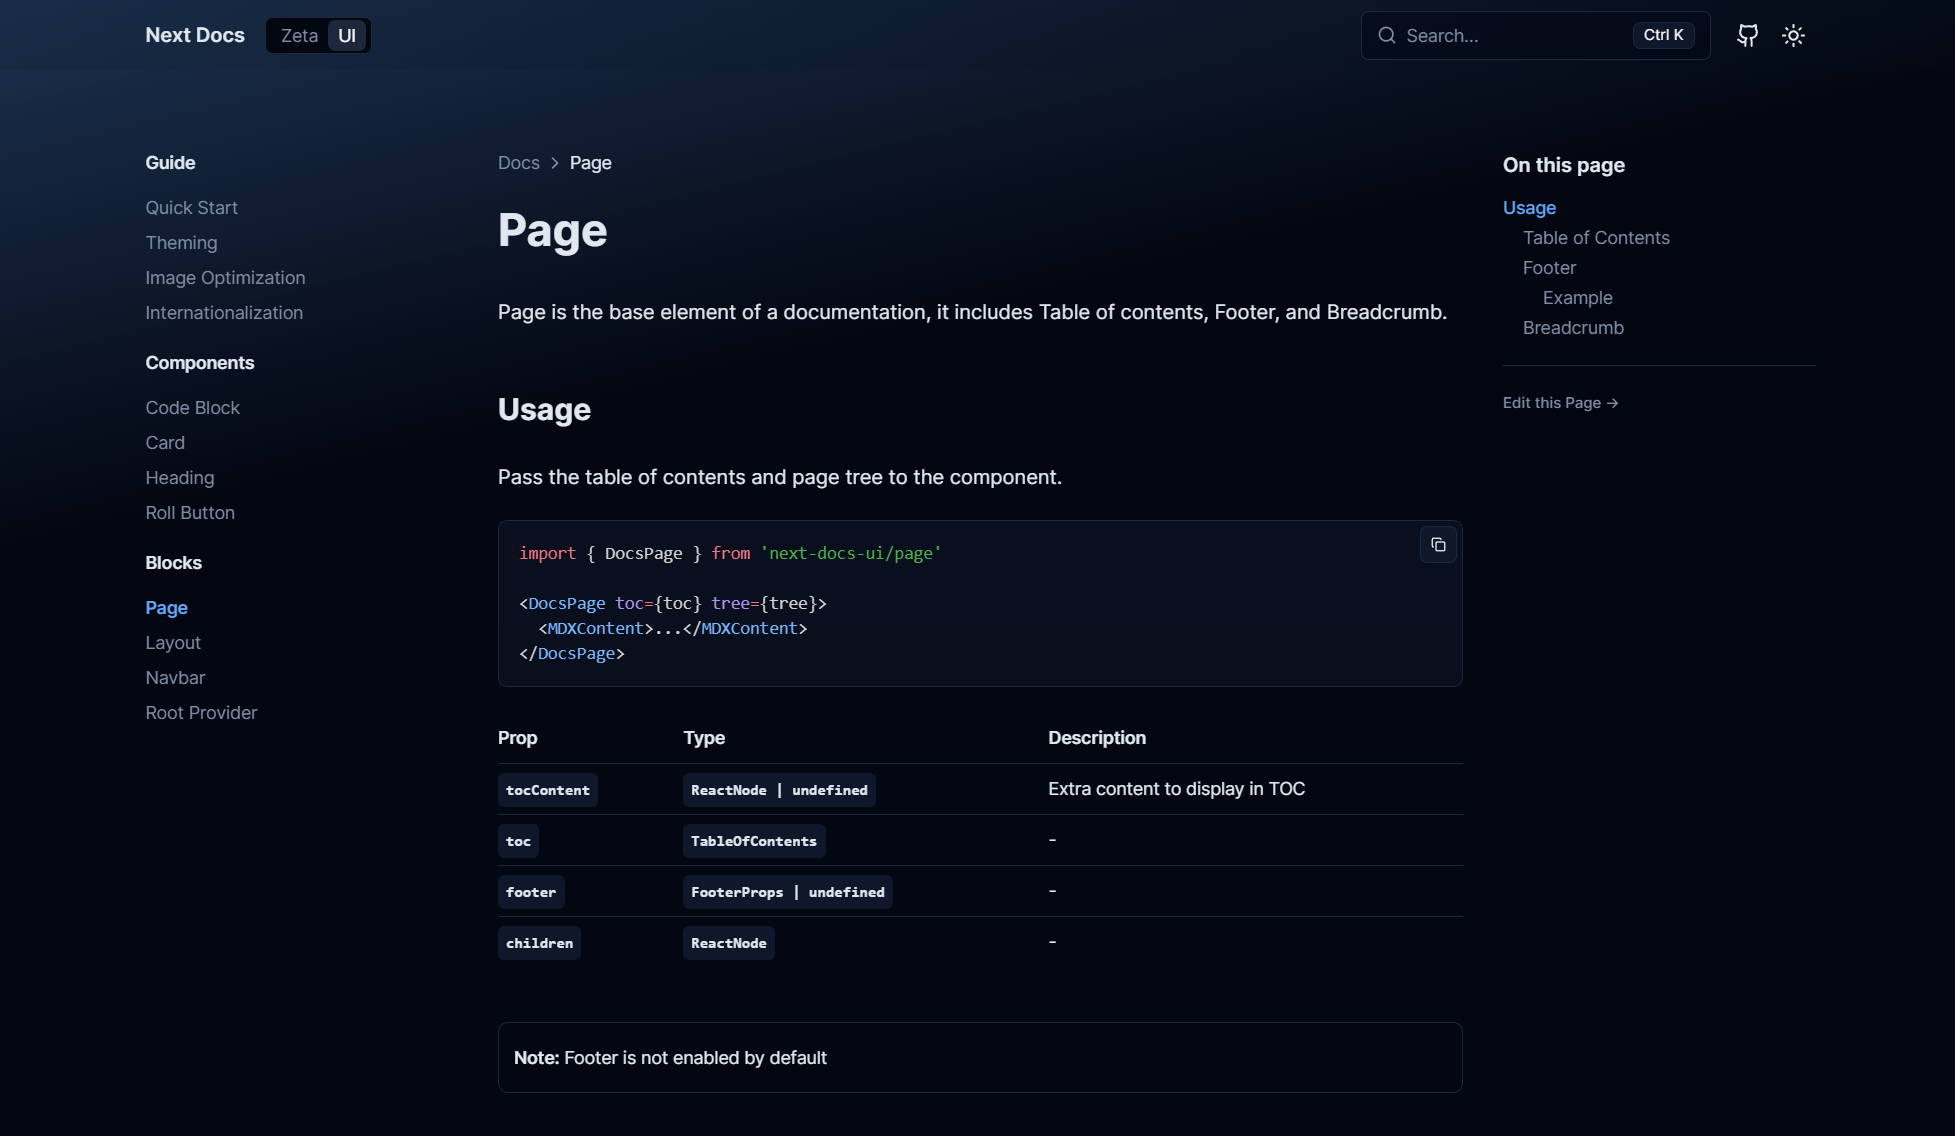
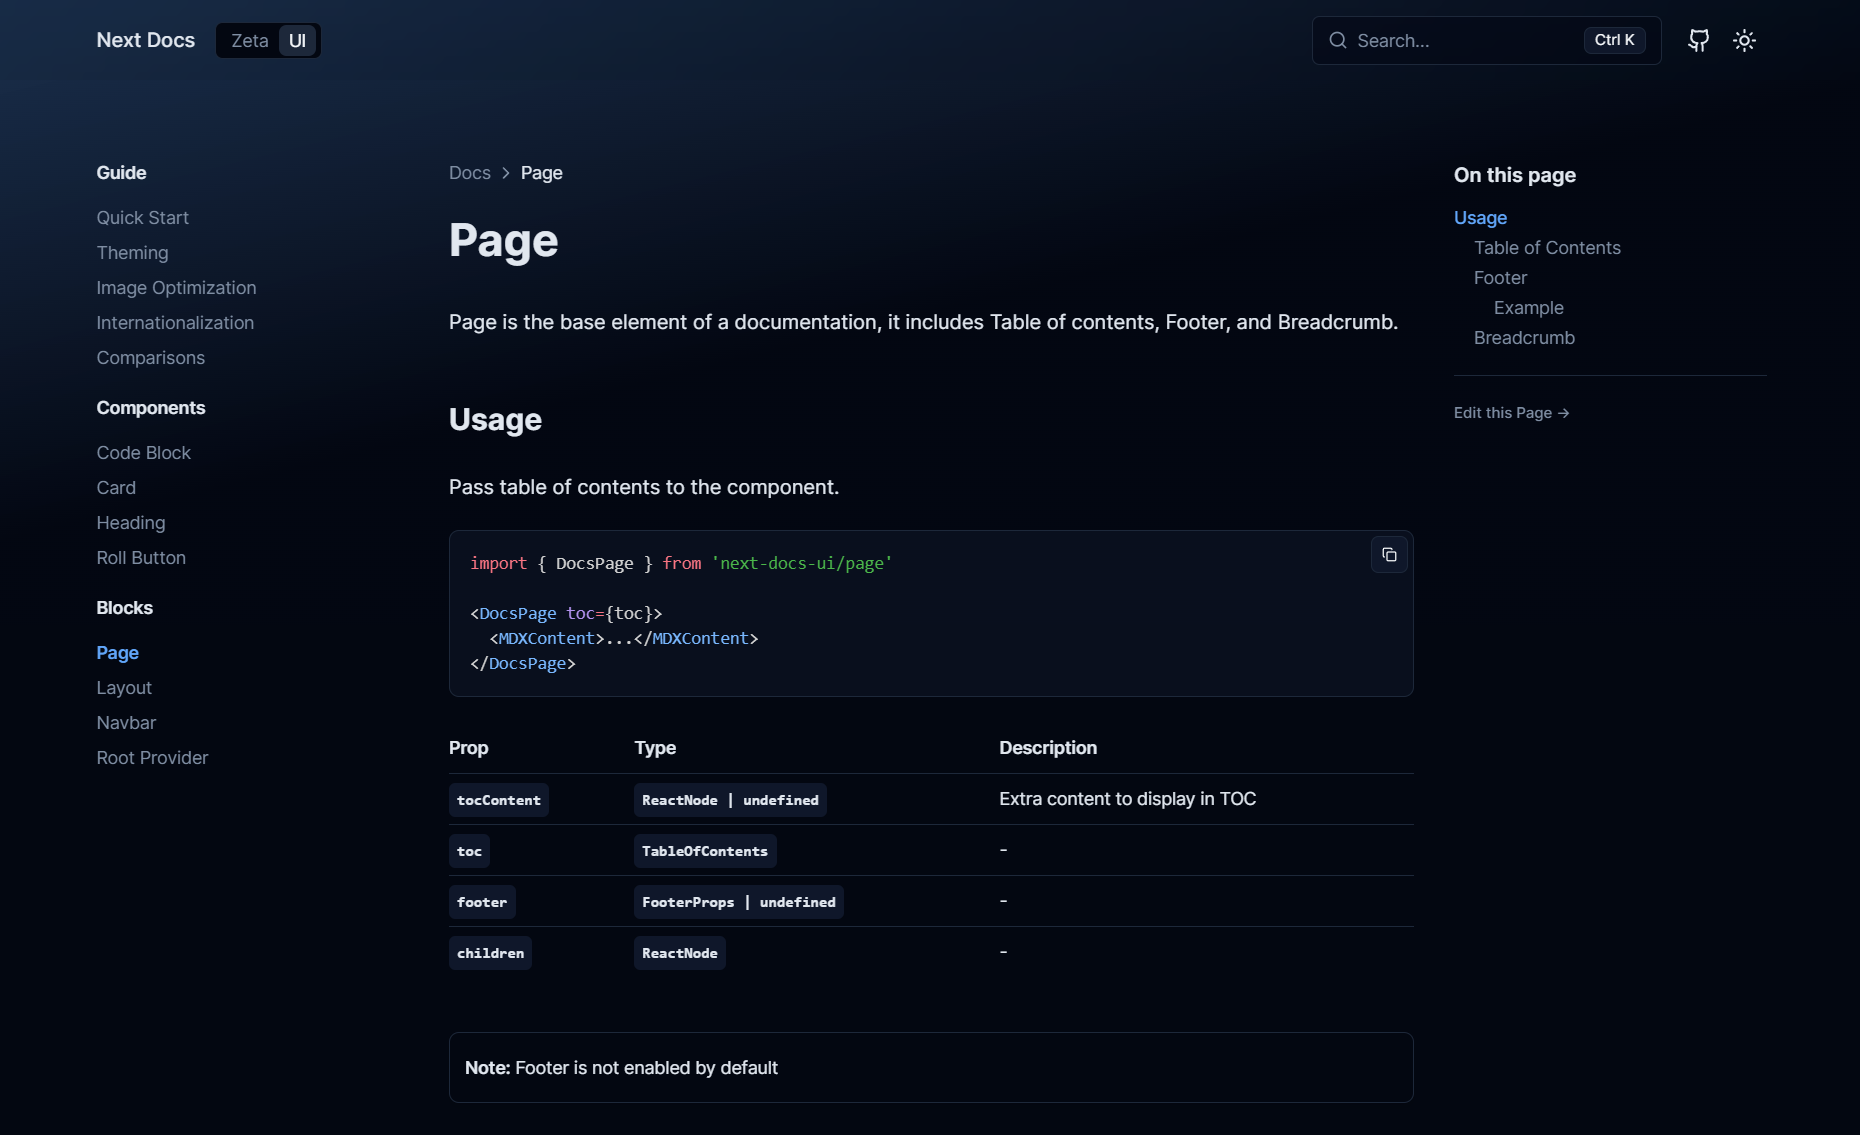
Docs: Use scroll area for code blocks

diff --git a/apps/docs/components/pre.tsx b/apps/docs/components/pre.tsx
@@ -1,0 +1,69 @@
+'use client'
+
+import { CheckIcon, CopyIcon } from 'lucide-react'
+import type { ComponentProps } from 'react'
+import { useEffect, useRef, useState } from 'react'
+import { ScrollArea } from './ui/scroll-area'
+
+export function Pre({ title, ...props }: ComponentProps<'pre'>) {
+  const ref = useRef<HTMLPreElement>(null)
+  const onCopy = () => {
+    if (ref.current == null || ref.current.textContent == null) return
+
+    navigator.clipboard.writeText(ref.current.textContent)
+  }
+
+  return (
+    <div
+      className="relative border rounded-lg bg-secondary/50 text-sm nd-not-prose"
+      data-rehype-pretty-code-fragment
+    >
+      {title && (
+        <div className="text-sm text-muted-foreground bg-muted pl-4 pr-12 py-2 border-b z-[2]">
+          {title}
+        </div>
+      )}
+      <CopyButton onCopy={onCopy} />
+      <ScrollArea>
+        <pre {...props} className="max-h-[400px]" ref={ref}>
+          {props.children}
+        </pre>
+      </ScrollArea>
+    </div>
+  )
+}
+
+function CopyButton({ onCopy }: { onCopy: () => void }) {
+  const [checked, setChecked] = useState(false)
+
+  const onClick = () => {
+    onCopy()
+    setChecked(true)
+  }
+
+  useEffect(() => {
+    if (!checked) return
+
+    const timer = setTimeout(() => {
+      setChecked(false)
+    }, 1500)
+
+    return () => {
+      clearTimeout(timer)
+    }
+  }, [checked])
+
+  return (
+    <button
+      className="absolute top-1 right-1 p-2 border bg-secondary text-secondary-foreground transition-colors rounded-md z-[2] hover:bg-accent"
+      aria-label="Copy Text"
+      onClick={onClick}
+    >
+      {checked ? (
+        <CheckIcon className="w-3 h-3" />
+      ) : (
+        <CopyIcon className="w-3 h-3" />
+      )}
+    </button>
+  )
+}

diff --git a/apps/docs/components/ui/scroll-area.tsx b/apps/docs/components/ui/scroll-area.tsx
@@ -1,0 +1,47 @@
+'use client'
+
+import { cn } from '@/utils/cn'
+import * as ScrollAreaPrimitive from '@radix-ui/react-scroll-area'
+import * as React from 'react'
+
+const ScrollArea = React.forwardRef<
+  React.ElementRef<typeof ScrollAreaPrimitive.Root>,
+  React.ComponentPropsWithoutRef<typeof ScrollAreaPrimitive.Root>
+>(({ className, children, ...props }, ref) => (
+  <ScrollAreaPrimitive.Root
+    ref={ref}
+    className={cn('relative overflow-hidden', className)}
+    {...props}
+  >
+    <ScrollAreaPrimitive.Viewport className="h-full w-full rounded-[inherit]">
+      {children}
+    </ScrollAreaPrimitive.Viewport>
+    <ScrollBar />
+    <ScrollAreaPrimitive.Corner />
+  </ScrollAreaPrimitive.Root>
+))
+ScrollArea.displayName = ScrollAreaPrimitive.Root.displayName
+
+const ScrollBar = React.forwardRef<
+  React.ElementRef<typeof ScrollAreaPrimitive.ScrollAreaScrollbar>,
+  React.ComponentPropsWithoutRef<typeof ScrollAreaPrimitive.ScrollAreaScrollbar>
+>(({ className, orientation = 'vertical', ...props }, ref) => (
+  <ScrollAreaPrimitive.ScrollAreaScrollbar
+    ref={ref}
+    orientation={orientation}
+    className={cn(
+      'flex touch-none select-none transition-colors',
+      orientation === 'vertical' &&
+        'h-full w-2.5 border-l border-l-transparent p-[1px]',
+      orientation === 'horizontal' &&
+        'h-2.5 border-t border-t-transparent p-[1px]',
+      className
+    )}
+    {...props}
+  >
+    <ScrollAreaPrimitive.ScrollAreaThumb className="relative flex-1 rounded-full bg-border" />
+  </ScrollAreaPrimitive.ScrollAreaScrollbar>
+))
+ScrollBar.displayName = ScrollAreaPrimitive.ScrollAreaScrollbar.displayName
+
+export { ScrollArea, ScrollBar }

diff --git a/apps/docs/app/docs/[mode]/[[...slug]]/page.tsx b/apps/docs/app/docs/[mode]/[[...slug]]/page.tsx
@@ -1,3 +1,4 @@
+import { Pre } from '@/components/pre'
 import {
   Accordion,
   AccordionContent,
@@ -16,7 +17,6 @@ import {
   Image,
   Link,
   MDXContent,
-  Pre,
   Table
 } from 'next-docs-ui/mdx'
 import { DocsPage } from 'next-docs-ui/page'
@@ -72,7 +72,7 @@ export default async function Page({ params }: { params: Param }) {
             Card: props => <Card {...props} />,
             Cards: props => <Cards {...props} />,
             a: props => <Link {...props} />,
-            pre: props => <Pre className="max-h-[300px]" {...props} />,
+            pre: props => <Pre {...props} />,
             img: props => <Image {...props} />,
             h1: props => <Heading as="h1" {...props} />,
             h2: props => <Heading as="h2" {...props} />,

diff --git a/apps/docs/app/docs/page.tsx b/apps/docs/app/docs/page.tsx
@@ -13,7 +13,10 @@ export default function DocsRoot() {
       <div className="absolute right-0 top-0 z-[-1] h-[500px] w-full max-w-[1000px] translate-x-[-50%] translate-y-[-50%] blur-3xl">
         <div className="h-full w-full bg-gradient-to-r from-purple-400 to-blue-400 [mask-image:linear-gradient(to_bottom,white,transparent)]" />
       </div>
-      <h1 className="text-3xl font-bold sm:text-4xl">Choose One.</h1>
+      <h1 className="text-3xl font-bold mb-2 sm:text-4xl">Choose One.</h1>
+      <p className="text-muted-foreground sm:text-lg">
+        Next Docs can be either a library or a full-powered framework.
+      </p>
       <div className="mt-8 grid grid-cols-1 gap-8 md:grid-cols-2">
         <Link
           href="/docs/headless"

diff --git a/apps/docs/components/nav.tsx b/apps/docs/components/nav.tsx
@@ -22,7 +22,7 @@ export function Nav() {
     >
       <Link
         href="/"
-        className="hover:text-muted-foreground whitespace-nowrap font-semibold"
+        className="whitespace-nowrap font-medium hover:text-muted-foreground"
       >
         Next Docs
       </Link>
